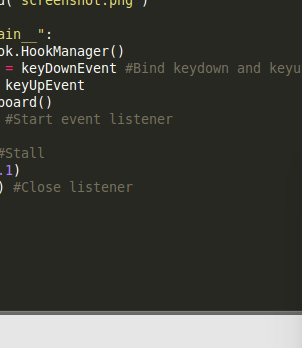
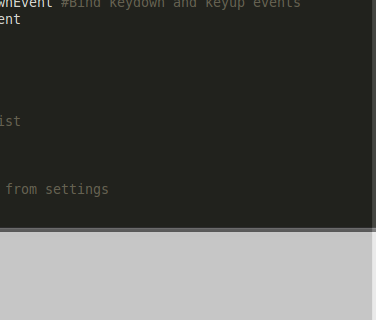
added xml support and classified workflows

diff --git a/main.py b/main.py
@@ -1,49 +1,56 @@
+from xml.etree import ElementTree
 import time
 import sys
-import subprocess
 sys.path.insert(1, './lib/pyxhook')
 import pyxhook
-from capture import takeScreenshot
-from anon_upload import anonymous_Upload
+from workflow import Workflow
 
 def keyDownEvent(event):
-	print "Ascii: " + str(event.Ascii) + " Scan Code: " + str(event.ScanCode)
-	if event.ScanCode == 37: #If the scan code matches left control, signal that the ctrl button is pressed
-		global ctrl
-		ctrl = True
+	print "Ascii: " + str(event.Ascii) + " Scan Code: " + str(event.ScanCode) + " Key Val: " + str(event.Key)
+	for flow in workflows:
+		flow.keyDown(event.Key)
 
-	if event.ScanCode == 50: #If the scan code matches left shift, signal that the shift button is pressed
-		global shift
-		shift = True
-
-	if event.ScanCode == 65: #If the ascii value matches spacebar, terminate the while loop
+	if event.Key == "space": #exit program when spacebar pressed
 		global running
 		running =  False
-	if event.ScanCode == 13: #If the ascii value matches '4', and both ctrl and shift are pressed, run screenshot.py
-		if ctrl and shift:
-			print("Running Workflow #1")
-			workflow1()
 
 def keyUpEvent(event):
-	if event.ScanCode == 37: #If the scan code matches left control, signal that the ctrl button is not pressed
-		global ctrl
-		ctrl = False
+	for flow in workflows:
+		flow.keyUp(event.Key)
+	
+def loadWorkflows():
+	#Load settings file
+	settings = ElementTree.parse('settings.xml').getroot()
+	#Get number of workflows
+	num_flows = settings.find('num_workflows').text
 
-	if event.ScanCode == 50: #If the scan code matches left shift, signal that the shift button is not pressed
-		global shift
-		shift = False
+	for i in range(1, int(num_flows)+1): #For each workflow in the settings, create corresponding workflow class
+		#Define Workflows
+		workflow = Workflow(i)
 
-def workflow1(): #Workflow #1
-	subprocess.call(["/usr/bin/python2.7", "./capture.py"]) #Spawn a new process that takes a screenshot
-	anonymous_Upload("screenshot.png")
+		#Add workflow to list of workflows
+		workflows.append(workflow)
 
 if __name__ == "__main__":
+	#Setup Hooks into keyboard
 	hookman = pyxhook.HookManager()
 	hookman.KeyDown = keyDownEvent #Bind keydown and keyup events
 	hookman.KeyUp = keyUpEvent
 	hookman.HookKeyboard()
-	hookman.start() #Start event listener
+
+	#Start event listener
+	hookman.start()
+
+	#Initialize workflows list
+	global workflows
+	workflows = []
+
+	#Load all the workflows from settings
+	loadWorkflows()
+
+	#Start infinite loop
 	running = True
-	while running: #Stall
-		time.sleep(.1)
-	hookman.cancel() #Close listener
+	while running: 
+		time.sleep(.1) #sleep for .1 seconds
+
+	hookman.cancel() #Close listener when done

diff --git a/workflow.py b/workflow.py
@@ -1,0 +1,65 @@
+from xml.etree import ElementTree
+from xml.dom import minidom
+from capture import takeScreenshot
+from anon_upload import anonymous_Upload
+import subprocess
+
+class Workflow(object):
+	def __init__(self, workflowNumber):
+
+		self.settings = ElementTree.parse('settings.xml').getroot()
+		self.subsettings = self.settings.find('workflows').find('workflow' + str(workflowNumber)) #Find sub-branch of settings for this workflow
+
+
+		self.destination = self.settings.find('destination').text #Grab destination from top level settings
+		self.capture_method = self.subsettings.find('capture_method').text
+		self.hotkeys = self.subsettings.find('hotkeys').text.split('+')
+		self.after_capture = self.subsettings.find('after_capture').text.split(',')
+		self.after_upload = self.subsettings.find('after_upload').text.split(',')
+
+		self.keys = [False for key in self.hotkeys]
+
+	def run(self):
+		#Handle different capture methods
+		if self.capture_method == "def_rect":
+			subprocess.call(["/usr/bin/python2.7", "./capture.py"]) #Spawn a new process that takes a screenshot
+
+		#Handle things to do after capturing
+		for action in self.after_capture:
+			if self.after_capture == "upload":
+				if self.destination == "imgur_anon":
+					URL = anonymous_Upload("screenshot.png")
+			if self.after_capture == "edit":
+				#Edit image
+				pass
+		
+
+		#Handle things to do after uploading
+		if self.after_upload == "copy_link_to_clipboard":
+			clipboard = gtk.clipboard_get()
+			clipboard.set_text(URL)
+			clipboard.store()
+
+	def keyDown(self, key):
+		if key in self.hotkeys:
+			self.keys[self.hotkeys.index(key)] = True
+
+		if all(key is True for key in self.keys): #If all keys are held down, run workflow
+			self.run()
+
+		# print(self.keys)
+
+	def keyUp(self, key):
+		if key in self.hotkeys:
+			self.keys[self.hotkeys.index(key)] = False
+		# print(self.keys)
+
+	def prettify(self, elem): #Method for formatting xml tree for printing
+		"""Return a pretty-printed XML string for the Element.
+		"""
+		rough_string = ElementTree.tostring(elem, 'utf-8')
+		reparsed = minidom.parseString(rough_string)
+		return reparsed.toprettyxml(indent="  ")
+
+if __name__ == "__main__":
+	workflow1 = Workflow(1) #Workflow defined by number

diff --git a/anon_upload.py b/anon_upload.py
@@ -16,9 +16,7 @@ def anonymous_Upload(image):
 		}
 	)
 	x = json.loads(response.text)
-	clipboard = gtk.clipboard_get()
-	clipboard.set_text(x['data']['link'])
-	clipboard.store()
+	return x['data']['link']
 
 if __name__ == "__main__":
 	anonymous_Upload("screenshot.png")
